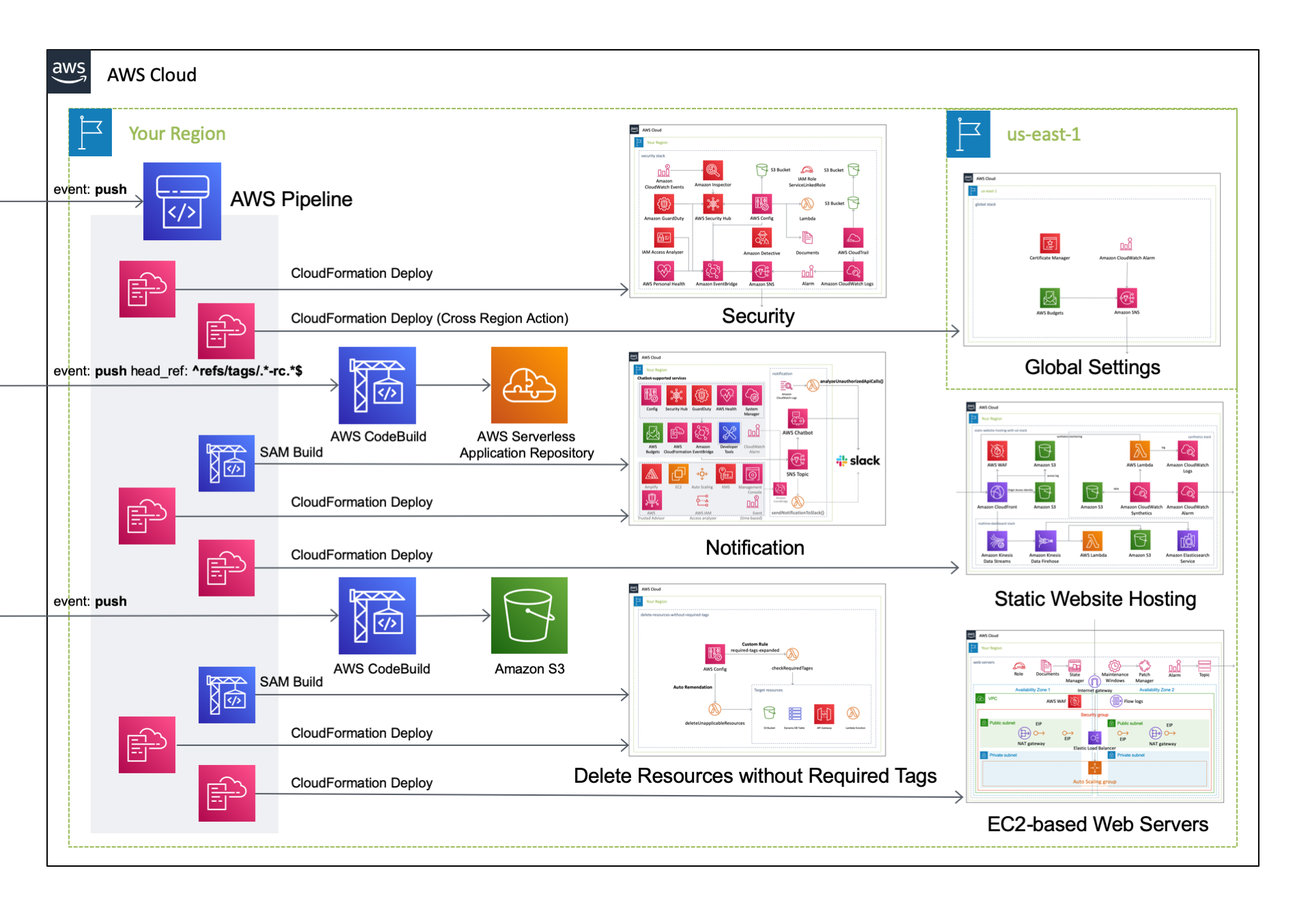
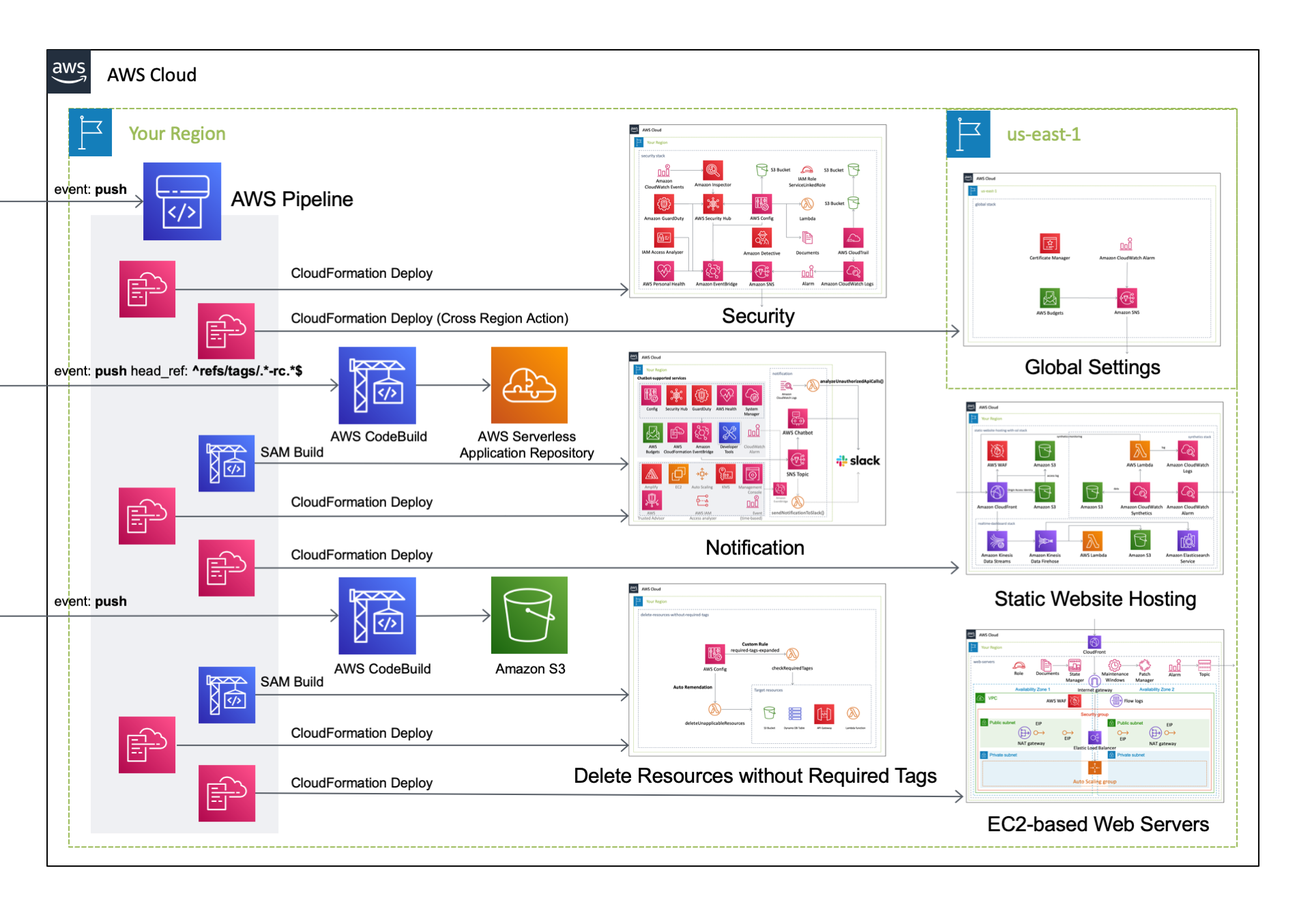
Update README files.

diff --git a/notification/sam-app/sendNotificationToSlack/lambda_function.py b/notification/sam-app/sendNotificationToSlack/lambda_function.py
@@ -359,44 +359,34 @@ def createMGNMessage(message):
     # MGN Source Server Launch Result
     if message['detail-type'] == 'MGN Source Server Launch Result':
         if message['detail']['state'] == 'TEST_LAUNCH_SUCCEEDED':
-            icon = ':computer:'
-            text = '*テストインスタンスが起動* しました。'
+            text = ':computer: *テストインスタンスが起動* しました。'
         elif message['detail']['state'] == 'TEST_LAUNCH_FAILED':
-            icon = ':x:'
-            text = '*テストインスタンスの起動に失敗* しました。'
+            text = ':x: *テストインスタンスの起動に失敗* しました。'
             color = "#961D13"
         elif message['detail']['state'] == 'CUTOVER_LAUNCH_SUCCEEDED':
-            icon = ':computer:'
-            text = '*カットオーバインスタンスが起動* しました。'
+            text = ':computer: *カットオーバインスタンスが起動* しました。'
         elif message['detail']['state'] == 'CUTOVER_LAUNCH_FAILED':
-            icon = ':x:'
-            text = '*カットオーバインスタンスの起動に失敗* しました。'
+            text = ':x: *カットオーバインスタンスの起動に失敗* しました。'
             color = "#961D13"
         else:
-            icon = ':japanese_ogre:'
-            text = '不明なイベントが発生しました。'
+            text = ':japanese_ogre: 不明なイベントが発生しました。'
             color = "#961D13"
     # MGN Source server lifecycle state change
     elif message['detail-type'] == 'MGN Source server lifecycle state change':
         if message['detail']['state'] == 'TEST_LAUNCH_SUCCEEDED':
-            icon = ':repeat:'
-            text = '*レプリケーションが完了* しました。'
+            text = ':repeat: *レプリケーションが完了* しました。'
         else:
-            icon = ':japanese_ogre:'
-            text = '不明なイベントが発生しました。'
+            text = ':japanese_ogre: 不明なイベントが発生しました。'
             color = "#961D13"
     # MGN Source server data replication stalled change
     elif message['detail-type'] == 'MGN Source server data replication stalled change':
         if message['detail']['state'] == 'STALLED':
-            icon = ':x:'
-            text = '*レプリケーションが停止* しました。'
+            text = ':x: *レプリケーションが停止* しました。'
             color = "#961D13"
         elif message['detail']['state'] == 'NOT_STALLED':
-            icon = ':repeat:'
-            text = '*レプリケーションが再開* しました。'
+            text = ':repeat: *レプリケーションが再開* しました。'
         else:
-            icon = ':japanese_ogre:'
-            text = '不明なイベントが発生しました。'
+            text = ':japanese_ogre: 不明なイベントが発生しました。'
             color = "#961D13"
 
     for resource in message['resources']:
@@ -404,7 +394,7 @@ def createMGNMessage(message):
     return {
         'attachments': [{
             'color': '#dc4f7e',
-            'title': "%s %s" % (icon, title),
+            'title': "%s" % title,
             'title_link': "%s" % title_link,
             'text': "%s" % text,
             'fields': [

diff --git a/README_JP.md b/README_JP.md
@@ -13,22 +13,22 @@ AWSCloudFormationTemplates は、**アカウント作成直後に行うべきセ
 
 | アプリケーション名 | 最新バージョン | リンク |
 | --- | --- | --- |
-| [codepipeline-default-settings](cicd/codepipeline-default-settings.md) | 1.2.29 | [AWS Serverless Application Repository](https://serverlessrepo.aws.amazon.com/applications/arn:aws:serverlessrepo:us-east-1:172664222583:applications~codepipeline-default-settings) |
-| [cloudwatch-alarm-about-apigateway](monitoring/cloudwatch-alarm-about-apigateway.md) | 1.2.29 | [AWS Serverless Application Repository](https://serverlessrepo.aws.amazon.com/applications/arn:aws:serverlessrepo:us-east-1:172664222583:applications~cloudwatch-alarm-about-apigateway) |
-| [cloudwatch-alarm-about-codebuild](monitoring/cloudwatch-alarm-about-codebuild.md) | 1.2.29 | [AWS Serverless Application Repository](https://serverlessrepo.aws.amazon.com/applications/arn:aws:serverlessrepo:us-east-1:172664222583:applications~cloudwatch-alarm-about-codebuild) |
-| [cloudwatch-alarm-about-dynamodb-throttle](monitoring/cloudwatch-alarm-about-dynamodb-throttle.md) | 1.2.29 | [AWS Serverless Application Repository](https://serverlessrepo.aws.amazon.com/applications/arn:aws:serverlessrepo:us-east-1:172664222583:applications~cloudwatch-alarm-about-dynamodb-throttle) |
-| [cloudwatch-alarm-about-dynamodb](monitorining/cloudwatch-alarm-about-dynamodb.md) | 1.2.29 | [AWS Serverless Application Repository](https://serverlessrepo.aws.amazon.com/applications/arn:aws:serverlessrepo:us-east-1:172664222583:applications~cloudwatch-alarm-about-dynamodb) |
-| [cloudwatch-alarm-about-ec2](monitoring/cloudwatch-alarm-about-ec2.md) | 1.2.29 | [AWS Serverless Application Repository](https://serverlessrepo.aws.amazon.com/applications/arn:aws:serverlessrepo:us-east-1:172664222583:applications~cloudwatch-alarm-about-ec2) |
-| [cloudwatch-alarm-about-elasticsearch](monitoring/cloudwatch-alarm-about-elasticsearch.md) | 1.2.29 | [AWS Serverless Application Repository](https://serverlessrepo.aws.amazon.com/applications/arn:aws:serverlessrepo:us-east-1:172664222583:applications~cloudwatch-alarm-about-elasticsearch) |
-| [cloudwatch-alarm-about-events](monitoring/cloudwatch-alarm-about-events.md) | 1.2.29 | [AWS Serverless Application Repository](https://serverlessrepo.aws.amazon.com/applications/arn:aws:serverlessrepo:us-east-1:172664222583:applications~cloudwatch-alarm-about-events) |
-| [cloudwatch-alarm-about-kinesis-data-streams](monitoring/cloudwatch-alarm-about-kinesis-data-streams.md) | 1.2.29 | [AWS Serverless Application Repository](https://serverlessrepo.aws.amazon.com/applications/arn:aws:serverlessrepo:us-east-1:172664222583:applications~cloudwatch-alarm-about-kinesis-data-streams) |
-| [cloudwatch-alarm-about-kinesis-data-firehose](monitoring/cloudwatch-alarm-about-kinesis-data-firehose.md) | 1.2.29 | [AWS Serverless Application Repository](https://serverlessrepo.aws.amazon.com/applications/arn:aws:serverlessrepo:us-east-1:172664222583:applications~cloudwatch-alarm-about-kinesis-data-firehose) |
-| [cloudwatch-alarm-about-lambda](monitoring/cloudwatch-alarm-about-lambda.md) | 1.2.29 | [AWS Serverless Application Repository](https://serverlessrepo.aws.amazon.com/applications/arn:aws:serverlessrepo:us-east-1:172664222583:applications~cloudwatch-alarm-about-lambda) |
-| [cloudwatch-alarm-about-natgateway](monitoring/cloudwatch-alarm-about-natgateway.md) | 1.2.29 | [AWS Serverless Application Repository](https://serverlessrepo.aws.amazon.com/applications/arn:aws:serverlessrepo:us-east-1:172664222583:applications~cloudwatch-alarm-about-natgateway) |
-| [cloudwatch-alarm-about-sns](monitoring/cloudwatch-alarm-about-sns.md) | 1.2.29 | [AWS Serverless Application Repository](https://serverlessrepo.aws.amazon.com/applications/arn:aws:serverlessrepo:us-east-1:172664222583:applications~cloudwatch-alarm-about-sns) |
-| [sns-topic](notification/sns-topic.md) | 1.2.29 | [AWS Serverless Application Repository](https://serverlessrepo.aws.amazon.com/applications/arn:aws:serverlessrepo:us-east-1:172664222583:applications~sns-topic) |
-| [eventbridge-rules](eventbridge-rules.md) | 1.2.29 | [AWS Serverless Application Repository](https://serverlessrepo.aws.amazon.com/applications/arn:aws:serverlessrepo:us-east-1:172664222583:applications~eventbridge-rules) |
-| [delete-resources-without-required-tags](security-config-rules/delete-resources-without-required-tags.md) | 1.2.29 | [AWS Serverless Application Repository](https://serverlessrepo.aws.amazon.com/applications/arn:aws:serverlessrepo:us-east-1:172664222583:applications~delete-resources-without-required-tags) |
+| [codepipeline-default-settings](cicd/codepipeline-default-settings.md) | 1.3.2 | [AWS Serverless Application Repository](https://serverlessrepo.aws.amazon.com/applications/arn:aws:serverlessrepo:us-east-1:172664222583:applications~codepipeline-default-settings) |
+| [cloudwatch-alarm-about-apigateway](monitoring/cloudwatch-alarm-about-apigateway.md) | 1.3.2 | [AWS Serverless Application Repository](https://serverlessrepo.aws.amazon.com/applications/arn:aws:serverlessrepo:us-east-1:172664222583:applications~cloudwatch-alarm-about-apigateway) |
+| [cloudwatch-alarm-about-codebuild](monitoring/cloudwatch-alarm-about-codebuild.md) | 1.3.2 | [AWS Serverless Application Repository](https://serverlessrepo.aws.amazon.com/applications/arn:aws:serverlessrepo:us-east-1:172664222583:applications~cloudwatch-alarm-about-codebuild) |
+| [cloudwatch-alarm-about-dynamodb-throttle](monitoring/cloudwatch-alarm-about-dynamodb-throttle.md) | 1.3.2 | [AWS Serverless Application Repository](https://serverlessrepo.aws.amazon.com/applications/arn:aws:serverlessrepo:us-east-1:172664222583:applications~cloudwatch-alarm-about-dynamodb-throttle) |
+| [cloudwatch-alarm-about-dynamodb](monitorining/cloudwatch-alarm-about-dynamodb.md) | 1.3.2 | [AWS Serverless Application Repository](https://serverlessrepo.aws.amazon.com/applications/arn:aws:serverlessrepo:us-east-1:172664222583:applications~cloudwatch-alarm-about-dynamodb) |
+| [cloudwatch-alarm-about-ec2](monitoring/cloudwatch-alarm-about-ec2.md) | 1.3.2 | [AWS Serverless Application Repository](https://serverlessrepo.aws.amazon.com/applications/arn:aws:serverlessrepo:us-east-1:172664222583:applications~cloudwatch-alarm-about-ec2) |
+| [cloudwatch-alarm-about-elasticsearch](monitoring/cloudwatch-alarm-about-elasticsearch.md) | 1.3.2 | [AWS Serverless Application Repository](https://serverlessrepo.aws.amazon.com/applications/arn:aws:serverlessrepo:us-east-1:172664222583:applications~cloudwatch-alarm-about-elasticsearch) |
+| [cloudwatch-alarm-about-events](monitoring/cloudwatch-alarm-about-events.md) | 1.3.2 | [AWS Serverless Application Repository](https://serverlessrepo.aws.amazon.com/applications/arn:aws:serverlessrepo:us-east-1:172664222583:applications~cloudwatch-alarm-about-events) |
+| [cloudwatch-alarm-about-kinesis-data-streams](monitoring/cloudwatch-alarm-about-kinesis-data-streams.md) | 1.3.2 | [AWS Serverless Application Repository](https://serverlessrepo.aws.amazon.com/applications/arn:aws:serverlessrepo:us-east-1:172664222583:applications~cloudwatch-alarm-about-kinesis-data-streams) |
+| [cloudwatch-alarm-about-kinesis-data-firehose](monitoring/cloudwatch-alarm-about-kinesis-data-firehose.md) | 1.3.2 | [AWS Serverless Application Repository](https://serverlessrepo.aws.amazon.com/applications/arn:aws:serverlessrepo:us-east-1:172664222583:applications~cloudwatch-alarm-about-kinesis-data-firehose) |
+| [cloudwatch-alarm-about-lambda](monitoring/cloudwatch-alarm-about-lambda.md) | 1.3.2 | [AWS Serverless Application Repository](https://serverlessrepo.aws.amazon.com/applications/arn:aws:serverlessrepo:us-east-1:172664222583:applications~cloudwatch-alarm-about-lambda) |
+| [cloudwatch-alarm-about-natgateway](monitoring/cloudwatch-alarm-about-natgateway.md) | 1.3.2 | [AWS Serverless Application Repository](https://serverlessrepo.aws.amazon.com/applications/arn:aws:serverlessrepo:us-east-1:172664222583:applications~cloudwatch-alarm-about-natgateway) |
+| [cloudwatch-alarm-about-sns](monitoring/cloudwatch-alarm-about-sns.md) | 1.3.2 | [AWS Serverless Application Repository](https://serverlessrepo.aws.amazon.com/applications/arn:aws:serverlessrepo:us-east-1:172664222583:applications~cloudwatch-alarm-about-sns) |
+| [sns-topic](notification/sns-topic.md) | 1.3.2 | [AWS Serverless Application Repository](https://serverlessrepo.aws.amazon.com/applications/arn:aws:serverlessrepo:us-east-1:172664222583:applications~sns-topic) |
+| [eventbridge-rules](eventbridge-rules.md) | 1.3.2 | [AWS Serverless Application Repository](https://serverlessrepo.aws.amazon.com/applications/arn:aws:serverlessrepo:us-east-1:172664222583:applications~eventbridge-rules) |
+| [delete-resources-without-required-tags](security-config-rules/delete-resources-without-required-tags.md) | 1.3.2 | [AWS Serverless Application Repository](https://serverlessrepo.aws.amazon.com/applications/arn:aws:serverlessrepo:us-east-1:172664222583:applications~delete-resources-without-required-tags) |
 
 ## テンプレート
 

diff --git a/README.md b/README.md
@@ -13,22 +13,22 @@ This project contains **AWS SAM–based serverless applications** and they are p
 
 | Application Name | Latest Version | Link |
 | --- | --- | --- |
-| [codepipeline-default-settings](cicd/codepipeline-default-settings.md) | 1.2.29 | [AWS Serverless Application Repository](https://serverlessrepo.aws.amazon.com/applications/arn:aws:serverlessrepo:us-east-1:172664222583:applications~codepipeline-default-settings) |
-| [cloudwatch-alarm-about-apigateway](monitoring/cloudwatch-alarm-about-apigateway.md) | 1.2.29 | [AWS Serverless Application Repository](https://serverlessrepo.aws.amazon.com/applications/arn:aws:serverlessrepo:us-east-1:172664222583:applications~cloudwatch-alarm-about-apigateway) |
-| [cloudwatch-alarm-about-codebuild](monitoring/cloudwatch-alarm-about-codebuild.md) | 1.2.29 | [AWS Serverless Application Repository](https://serverlessrepo.aws.amazon.com/applications/arn:aws:serverlessrepo:us-east-1:172664222583:applications~cloudwatch-alarm-about-codebuild) |
-| [cloudwatch-alarm-about-dynamodb-throttle](monitoring/cloudwatch-alarm-about-dynamodb-throttle.md) | 1.2.29 | [AWS Serverless Application Repository](https://serverlessrepo.aws.amazon.com/applications/arn:aws:serverlessrepo:us-east-1:172664222583:applications~cloudwatch-alarm-about-dynamodb-throttle) |
-| [cloudwatch-alarm-about-dynamodb](monitorining/cloudwatch-alarm-about-dynamodb.md) | 1.2.29 | [AWS Serverless Application Repository](https://serverlessrepo.aws.amazon.com/applications/arn:aws:serverlessrepo:us-east-1:172664222583:applications~cloudwatch-alarm-about-dynamodb) | 1.2.29 |
-| [cloudwatch-alarm-about-ec2](monitoring/cloudwatch-alarm-about-ec2.md) | 1.2.29 | [AWS Serverless Application Repository](https://serverlessrepo.aws.amazon.com/applications/arn:aws:serverlessrepo:us-east-1:172664222583:applications~cloudwatch-alarm-about-ec2) |
-| [cloudwatch-alarm-about-elasticsearch](monitoring/cloudwatch-alarm-about-elasticsearch.md) | 1.2.29 | [AWS Serverless Application Repository](https://serverlessrepo.aws.amazon.com/applications/arn:aws:serverlessrepo:us-east-1:172664222583:applications~cloudwatch-alarm-about-elasticsearch) |
-| [cloudwatch-alarm-about-events](monitoring/cloudwatch-alarm-about-events.md) | 1.2.29 | [AWS Serverless Application Repository](https://serverlessrepo.aws.amazon.com/applications/arn:aws:serverlessrepo:us-east-1:172664222583:applications~cloudwatch-alarm-about-events) |
-| [cloudwatch-alarm-about-kinesis-data-streams](monitoring/cloudwatch-alarm-about-kinesis-data-streams.md) | 1.2.29 | [AWS Serverless Application Repository](https://serverlessrepo.aws.amazon.com/applications/arn:aws:serverlessrepo:us-east-1:172664222583:applications~cloudwatch-alarm-about-kinesis-data-streams) |
-| [cloudwatch-alarm-about-kinesis-data-firehose](monitoring/cloudwatch-alarm-about-kinesis-data-firehose.md) | 1.2.29 | [AWS Serverless Application Repository](https://serverlessrepo.aws.amazon.com/applications/arn:aws:serverlessrepo:us-east-1:172664222583:applications~cloudwatch-alarm-about-kinesis-data-firehose) |
-| [cloudwatch-alarm-about-lambda](monitoring/cloudwatch-alarm-about-lambda.md) | 1.2.29 | [AWS Serverless Application Repository](https://serverlessrepo.aws.amazon.com/applications/arn:aws:serverlessrepo:us-east-1:172664222583:applications~cloudwatch-alarm-about-lambda) |
-| [cloudwatch-alarm-about-natgateway](monitoring/cloudwatch-alarm-about-natgateway.md) | 1.2.29 | [AWS Serverless Application Repository](https://serverlessrepo.aws.amazon.com/applications/arn:aws:serverlessrepo:us-east-1:172664222583:applications~cloudwatch-alarm-about-natgateway) |
-| [cloudwatch-alarm-about-sns](monitoring/cloudwatch-alarm-about-sns.md) | 1.2.29 | [AWS Serverless Application Repository](https://serverlessrepo.aws.amazon.com/applications/arn:aws:serverlessrepo:us-east-1:172664222583:applications~cloudwatch-alarm-about-sns) |
-| [sns-topic](notification/sns-topic.md) | 1.2.29 | [AWS Serverless Application Repository](https://serverlessrepo.aws.amazon.com/applications/arn:aws:serverlessrepo:us-east-1:172664222583:applications~sns-topic) |
-| [eventbridge-rules](eventbridge-rules.md) | 1.2.29 | [AWS Serverless Application Repository](https://serverlessrepo.aws.amazon.com/applications/arn:aws:serverlessrepo:us-east-1:172664222583:applications~eventbridge-rules) |
-| [delete-resources-without-required-tags](security-config-rules/delete-resources-without-required-tags.md) | 1.2.29 | [AWS Serverless Application Repository](https://serverlessrepo.aws.amazon.com/applications/arn:aws:serverlessrepo:us-east-1:172664222583:applications~delete-resources-without-required-tags) |
+| [codepipeline-default-settings](cicd/codepipeline-default-settings.md) | 1.3.2 | [AWS Serverless Application Repository](https://serverlessrepo.aws.amazon.com/applications/arn:aws:serverlessrepo:us-east-1:172664222583:applications~codepipeline-default-settings) |
+| [cloudwatch-alarm-about-apigateway](monitoring/cloudwatch-alarm-about-apigateway.md) | 1.3.2 | [AWS Serverless Application Repository](https://serverlessrepo.aws.amazon.com/applications/arn:aws:serverlessrepo:us-east-1:172664222583:applications~cloudwatch-alarm-about-apigateway) |
+| [cloudwatch-alarm-about-codebuild](monitoring/cloudwatch-alarm-about-codebuild.md) | 1.3.2 | [AWS Serverless Application Repository](https://serverlessrepo.aws.amazon.com/applications/arn:aws:serverlessrepo:us-east-1:172664222583:applications~cloudwatch-alarm-about-codebuild) |
+| [cloudwatch-alarm-about-dynamodb-throttle](monitoring/cloudwatch-alarm-about-dynamodb-throttle.md) | 1.3.2 | [AWS Serverless Application Repository](https://serverlessrepo.aws.amazon.com/applications/arn:aws:serverlessrepo:us-east-1:172664222583:applications~cloudwatch-alarm-about-dynamodb-throttle) |
+| [cloudwatch-alarm-about-dynamodb](monitorining/cloudwatch-alarm-about-dynamodb.md) | 1.3.2 | [AWS Serverless Application Repository](https://serverlessrepo.aws.amazon.com/applications/arn:aws:serverlessrepo:us-east-1:172664222583:applications~cloudwatch-alarm-about-dynamodb) | 1.3.2 |
+| [cloudwatch-alarm-about-ec2](monitoring/cloudwatch-alarm-about-ec2.md) | 1.3.2 | [AWS Serverless Application Repository](https://serverlessrepo.aws.amazon.com/applications/arn:aws:serverlessrepo:us-east-1:172664222583:applications~cloudwatch-alarm-about-ec2) |
+| [cloudwatch-alarm-about-elasticsearch](monitoring/cloudwatch-alarm-about-elasticsearch.md) | 1.3.2 | [AWS Serverless Application Repository](https://serverlessrepo.aws.amazon.com/applications/arn:aws:serverlessrepo:us-east-1:172664222583:applications~cloudwatch-alarm-about-elasticsearch) |
+| [cloudwatch-alarm-about-events](monitoring/cloudwatch-alarm-about-events.md) | 1.3.2 | [AWS Serverless Application Repository](https://serverlessrepo.aws.amazon.com/applications/arn:aws:serverlessrepo:us-east-1:172664222583:applications~cloudwatch-alarm-about-events) |
+| [cloudwatch-alarm-about-kinesis-data-streams](monitoring/cloudwatch-alarm-about-kinesis-data-streams.md) | 1.3.2 | [AWS Serverless Application Repository](https://serverlessrepo.aws.amazon.com/applications/arn:aws:serverlessrepo:us-east-1:172664222583:applications~cloudwatch-alarm-about-kinesis-data-streams) |
+| [cloudwatch-alarm-about-kinesis-data-firehose](monitoring/cloudwatch-alarm-about-kinesis-data-firehose.md) | 1.3.2 | [AWS Serverless Application Repository](https://serverlessrepo.aws.amazon.com/applications/arn:aws:serverlessrepo:us-east-1:172664222583:applications~cloudwatch-alarm-about-kinesis-data-firehose) |
+| [cloudwatch-alarm-about-lambda](monitoring/cloudwatch-alarm-about-lambda.md) | 1.3.2 | [AWS Serverless Application Repository](https://serverlessrepo.aws.amazon.com/applications/arn:aws:serverlessrepo:us-east-1:172664222583:applications~cloudwatch-alarm-about-lambda) |
+| [cloudwatch-alarm-about-natgateway](monitoring/cloudwatch-alarm-about-natgateway.md) | 1.3.2 | [AWS Serverless Application Repository](https://serverlessrepo.aws.amazon.com/applications/arn:aws:serverlessrepo:us-east-1:172664222583:applications~cloudwatch-alarm-about-natgateway) |
+| [cloudwatch-alarm-about-sns](monitoring/cloudwatch-alarm-about-sns.md) | 1.3.2 | [AWS Serverless Application Repository](https://serverlessrepo.aws.amazon.com/applications/arn:aws:serverlessrepo:us-east-1:172664222583:applications~cloudwatch-alarm-about-sns) |
+| [sns-topic](notification/sns-topic.md) | 1.3.2 | [AWS Serverless Application Repository](https://serverlessrepo.aws.amazon.com/applications/arn:aws:serverlessrepo:us-east-1:172664222583:applications~sns-topic) |
+| [eventbridge-rules](eventbridge-rules.md) | 1.3.2 | [AWS Serverless Application Repository](https://serverlessrepo.aws.amazon.com/applications/arn:aws:serverlessrepo:us-east-1:172664222583:applications~eventbridge-rules) |
+| [delete-resources-without-required-tags](security-config-rules/delete-resources-without-required-tags.md) | 1.3.2 | [AWS Serverless Application Repository](https://serverlessrepo.aws.amazon.com/applications/arn:aws:serverlessrepo:us-east-1:172664222583:applications~delete-resources-without-required-tags) |
 
 ## Templates
 

diff --git a/monitoring/README.md b/monitoring/README.md
@@ -60,7 +60,7 @@ Type: 'AWS::Serverless::Application'
 Properties:
   Location:
     ApplicationId: arn:aws:serverlessrepo:us-east-1:172664222583:applications/cloudwatch-alarm-about-apigateway
-    SemanticVersion: 1.2.29
+    SemanticVersion: 1.3.2
   NotificationARNs: 
     - String
   Parameters: 
@@ -116,7 +116,7 @@ Type: 'AWS::Serverless::Application'
 Properties:
   Location:
     ApplicationId: arn:aws:serverlessrepo:us-east-1:172664222583:applications/cloudwatch-alarm-about-codebuild
-    SemanticVersion: 1.2.29
+    SemanticVersion: 1.3.2
   NotificationARNs: 
     - String
   Parameters: 
@@ -168,7 +168,7 @@ Type: 'AWS::Serverless::Application'
 Properties:
   Location:
     ApplicationId: arn:aws:serverlessrepo:us-east-1:172664222583:applications/cloudwatch-alarm-about-dynamodb-throttle
-    SemanticVersion: 1.2.29
+    SemanticVersion: 1.3.2
   NotificationARNs: 
     - String
   Parameters: 
@@ -218,7 +218,7 @@ Type: 'AWS::Serverless::Application'
 Properties:
   Location:
     ApplicationId: arn:aws:serverlessrepo:us-east-1:172664222583:applications/cloudwatch-alarm-about-dynamodb
-    SemanticVersion: 1.2.29
+    SemanticVersion: 1.3.2
   NotificationARNs: 
     - String
   Parameters: 
@@ -269,7 +269,7 @@ Type: 'AWS::Serverless::Application'
 Properties:
   Location:
     ApplicationId: arn:aws:serverlessrepo:us-east-1:172664222583:applications/cloudwatch-alarm-about-ec2
-    SemanticVersion: 1.2.29
+    SemanticVersion: 1.3.2
   NotificationARNs: 
     - String
   Parameters: 
@@ -320,7 +320,7 @@ Type: 'AWS::Serverless::Application'
 Properties:
   Location:
     ApplicationId: arn:aws:serverlessrepo:us-east-1:172664222583:applications/cloudwatch-alarm-about-events
-    SemanticVersion: 1.2.29
+    SemanticVersion: 1.3.2
   NotificationARNs: 
     - String
   Parameters: 
@@ -377,7 +377,7 @@ Type: 'AWS::Serverless::Application'
 Properties:
   Location:
     ApplicationId: arn:aws:serverlessrepo:us-east-1:172664222583:applications/cloudwatch-alarm-about-kinesis
-    SemanticVersion: 1.2.29
+    SemanticVersion: 1.3.2
   NotificationARNs: 
     - String
   Parameters: 
@@ -437,7 +437,7 @@ Type: 'AWS::Serverless::Application'
 Properties:
   Location:
     ApplicationId: arn:aws:serverlessrepo:us-east-1:172664222583:applications/cloudwatch-alarm-about-lambda
-    SemanticVersion: 1.2.29
+    SemanticVersion: 1.3.2
   NotificationARNs: 
     - String
   Parameters: 
@@ -488,7 +488,7 @@ Type: 'AWS::Serverless::Application'
 Properties:
   Location:
     ApplicationId: arn:aws:serverlessrepo:us-east-1:172664222583:applications/cloudwatch-alarm-about-natgateway
-    SemanticVersion: 1.2.29
+    SemanticVersion: 1.3.2
   NotificationARNs: 
     - String
   Parameters: 
@@ -538,7 +538,7 @@ Type: 'AWS::Serverless::Application'
 Properties:
   Location:
     ApplicationId: arn:aws:serverlessrepo:us-east-1:172664222583:applications/cloudwatch-alarm-about-sns
-    SemanticVersion: 1.2.29
+    SemanticVersion: 1.3.2
   NotificationARNs: 
     - String
   Parameters: 

diff --git a/monitoring/README_JP.md b/monitoring/README_JP.md
@@ -58,7 +58,7 @@ Type: 'AWS::Serverless::Application'
 Properties:
   Location:
     ApplicationId: arn:aws:serverlessrepo:us-east-1:172664222583:applications/cloudwatch-alarm-about-apigateway
-    SemanticVersion: 1.2.29
+    SemanticVersion: 1.3.2
   NotificationARNs: 
     - String
   Parameters: 
@@ -114,7 +114,7 @@ Type: 'AWS::Serverless::Application'
 Properties:
   Location:
     ApplicationId: arn:aws:serverlessrepo:us-east-1:172664222583:applications/cloudwatch-alarm-about-codebuild
-    SemanticVersion: 1.2.29
+    SemanticVersion: 1.3.2
   NotificationARNs: 
     - String
   Parameters: 
@@ -166,7 +166,7 @@ Type: 'AWS::Serverless::Application'
 Properties:
   Location:
     ApplicationId: arn:aws:serverlessrepo:us-east-1:172664222583:applications/cloudwatch-alarm-about-dynamodb-throttle
-    SemanticVersion: 1.2.29
+    SemanticVersion: 1.3.2
   NotificationARNs: 
     - String
   Parameters: 
@@ -216,7 +216,7 @@ Type: 'AWS::Serverless::Application'
 Properties:
   Location:
     ApplicationId: arn:aws:serverlessrepo:us-east-1:172664222583:applications/cloudwatch-alarm-about-dynamodb
-    SemanticVersion: 1.2.29
+    SemanticVersion: 1.3.2
   NotificationARNs: 
     - String
   Parameters: 
@@ -267,7 +267,7 @@ Type: 'AWS::Serverless::Application'
 Properties:
   Location:
     ApplicationId: arn:aws:serverlessrepo:us-east-1:172664222583:applications/cloudwatch-alarm-about-ec2
-    SemanticVersion: 1.2.29
+    SemanticVersion: 1.3.2
   NotificationARNs: 
     - String
   Parameters: 
@@ -318,7 +318,7 @@ Type: 'AWS::Serverless::Application'
 Properties:
   Location:
     ApplicationId: arn:aws:serverlessrepo:us-east-1:172664222583:applications/cloudwatch-alarm-about-events
-    SemanticVersion: 1.2.29
+    SemanticVersion: 1.3.2
   NotificationARNs: 
     - String
   Parameters: 
@@ -375,7 +375,7 @@ Type: 'AWS::Serverless::Application'
 Properties:
   Location:
     ApplicationId: arn:aws:serverlessrepo:us-east-1:172664222583:applications/cloudwatch-alarm-about-kinesis
-    SemanticVersion: 1.2.29
+    SemanticVersion: 1.3.2
   NotificationARNs: 
     - String
   Parameters: 
@@ -435,7 +435,7 @@ Type: 'AWS::Serverless::Application'
 Properties:
   Location:
     ApplicationId: arn:aws:serverlessrepo:us-east-1:172664222583:applications/cloudwatch-alarm-about-lambda
-    SemanticVersion: 1.2.29
+    SemanticVersion: 1.3.2
   NotificationARNs: 
     - String
   Parameters: 
@@ -486,7 +486,7 @@ Type: 'AWS::Serverless::Application'
 Properties:
   Location:
     ApplicationId: arn:aws:serverlessrepo:us-east-1:172664222583:applications/cloudwatch-alarm-about-natgateway
-    SemanticVersion: 1.2.29
+    SemanticVersion: 1.3.2
   NotificationARNs: 
     - String
   Parameters: 
@@ -536,7 +536,7 @@ Type: 'AWS::Serverless::Application'
 Properties:
   Location:
     ApplicationId: arn:aws:serverlessrepo:us-east-1:172664222583:applications/cloudwatch-alarm-about-sns
-    SemanticVersion: 1.2.29
+    SemanticVersion: 1.3.2
   NotificationARNs: 
     - String
   Parameters: 

diff --git a/web-servers/README_JP.md b/web-servers/README_JP.md
@@ -42,8 +42,22 @@ aws cloudformation deploy --template-file template.yaml --stack-name WebServers 
 | AutoScalingDesiredCapacity | Number | 1 | ○ | | 
 | AutoScalingMaxSize | Number | 1 | ○ | |
 | AutoScalingLoadBalancerType | None, application, network | None | ○ | 'None'を指定した場合、ELBは作成されません。 |
-| CertificateManagerARN | String | | | ARNを指定した場合、**Elastic Load Balancer** に **SSL証明書** が紐付けられます。 |
-| DomainName | String | | | Elastic Load Balancer と紐づける CNAME 名 | 
+| ACMValidationMethod | String | DNS | 条件付き | ドメインの検証方法 |
+| ACMDomainName | String | | | 証明書のドメイン名 |
+| CertificateManagerARN | String | | | ARNを指定した場合、**CloudFront** もしくは **Elastic Load Balancer** に **SSL証明書** が紐付けられます。 |
+| **DomainName** | String | | ○ | |
+| CloudFrontDefaultTTL | Number | 86400 | ○ | |
+| CloudFrontMinimumTTL | Number | 0 | ○ | |
+| CloudFrontMaximumTTL |  Number | 31536000 | ○ | |
+| CloudFrontViewerProtocolPolicy | allow-all / redirect-to-https / https-only | redirect-to-https | ○ | |
+| CloudFrontAdditionalName | String | | | AdditionalNameを指定した場合、**CloudFront** に **エイリアス名** が紐付けられます。 |
+| CloudFrontSecondaryOriginId | String | | | SecondaryOriginIdを指定した場合、**CloudFront** に **セカンダリS3バケット** が紐付けられます。 |
+| CloudFrontRestrictViewerAccess | ENABLED / DISABLED | DISABLED | ○ | ENABLEDを指定した場合、**CloudFront** の **Restrict Viewer Access** が有効化されます。 |
+| CloudFrontState | DISABLED | ○ | CloudFront を有効にするかどうか |
+| CloudFront403ErrorResponsePagePath | String | | | エラーコード403のページパス |
+| CloudFront404ErrorResponsePagePath | String | | | エラーコード404のページパス |
+| CloudFront500ErrorResponsePagePath | String | | | エラーコード500のページパス |
+| DomainName | String | | | ドメイン名 | 
 | EC2DailySnapshotScheduledAt | String | 17:00 | ○ | スナップショット作成時刻 (UTC) |
 | EC2ImageId | AWS::EC2::Image::Id | ami-068a6cefc24c301d2 | ○ | Amazon Linux 2 AMI (HVM), SSD Volume Type (64bit x86) |
 | EC2InstanceType | String | t3.micro | ○ | | 
@@ -58,6 +72,7 @@ aws cloudformation deploy --template-file template.yaml --stack-name WebServers 
 | SubnetPublicCidrBlockForAz2 | String | 10.0.4.0/24 | ○ | AZ2 の パブリックサブネット |
 | SubnetExternalCidrBlockForAz2 | String | 10.0.5.0/24 | ○ | AZ2 の プライベートサブネット |
 | WebACL | ENABLED / DISABLED | DISABLED | ○ | DISABLED に設定された場合、AWS WAFは作成されません。 |
+| WebACLArnForCloudFront | String | | | CloudFrontにアタッチするWAFのARN |
 | VPCCidrBlock | String | 10.0.0.0/21 | ○ | |
 
 ## トラブルシューティング

diff --git a/web-servers/README.md b/web-servers/README.md
@@ -42,8 +42,21 @@ You can provide optional parameters as follows.
 | AutoScalingDesiredCapacity | Number | 1 | ○ | If it's NOT Disabled, AutoScalingGroup and Network Load Balancer are created. | 
 | AutoScalingMaxSize | Number | 1 | ○ | |
 | AutoScalingLoadBalancerType | None, application, network | None | ○ | If you set 'None', an ELB is NOT created. |
-| CertificateManagerARN | String | | | If it's NOT empty, **SSL Certification** is associated with **Elastic Load Balancer**. |
-| DomainName | String | | | The CNAME attached to Elastic Load Balancer | 
+| ACMValidationMethod | String | DNS | Conditional | The validation method that you own or control the domain |
+| ACMDomainName | String | | | The domain name created by Certification Manager |
+| CertificateManagerARN | String | | | If it's NOT empty, **SSL Certification** is associated with **CloudFront** or **Elastic Load Balancer**. |
+| CloudFrontDefaultTTL | Number | 86400 | ○ | CloudFront Default TTL |
+| CloudFrontMinimumTTL | Number | 0 | ○ | CloudFront Minimum TTL |
+| CloudFrontMaximumTTL | Number | 31536000 | ○ | CloudFront Maximum TTL |
+| CloudFrontViewerProtocolPolicy | allow-all / redirect-to-https / https-only | redirect-to-https | ○ | CloudFront Viewer Protocol Policy |
+| CloudFrontAdditionalName | String | | | If it's NOT empty, **Alias name** is set on **CloudFront**. |
+| CloudFrontSecondaryOriginId | String | | | If it's NOT empty, **Secondary S3 bucket** is associated with **CloudFront**. |
+| CloudFrontRestrictViewerAccess | ENABLED / DISABLED | DISABLED | ○ | Enable or disable Restrict Viewer Access |
+| CloudFrontState | DISABLED | ○ | Enable or disable CloudFront |
+| CloudFront403ErrorResponsePagePath | String | | | The path to the 403 custom error page |
+| CloudFront404ErrorResponsePagePath | String | | | The path to the 404 custom error page |
+| CloudFront500ErrorResponsePagePath | String | | | The path to the 500 custom error page |
+| DomainName | String | | | Domain name | 
 | EC2DailySnapshotScheduledAt | String | 17:00 | ○ | Starting time of daily snapshot. (UTC) |
 | EC2ImageId | AWS::EC2::Image::Id | ami-068a6cefc24c301d2 | ○ | Amazon Linux 2 AMI (HVM), SSD Volume Type (64bit x86) |
 | EC2InstanceType | String | t3.micro | ○ | | 
@@ -58,6 +71,7 @@ You can provide optional parameters as follows.
 | SubnetPublicCidrBlockForAz2 | String | 10.0.4.0/24 | ○ | Public subnet of AZ2 |
 | SubnetExternalCidrBlockForAz2 | String | 10.0.5.0/24 | ○ | Private subnet of AZ2 |
 | WebACL | ENABLED / DISABLED | DISABLED | ○ | If **Disabled** is set, AWS WAF does NOT created. |
+| WebACLArnForCloudFront | String | | | Web ACL ARN for CloudFront |
 | VPCCidrBlock | String | 10.0.0.0/21 | ○ | |
 
 ## Trouble Shooting
